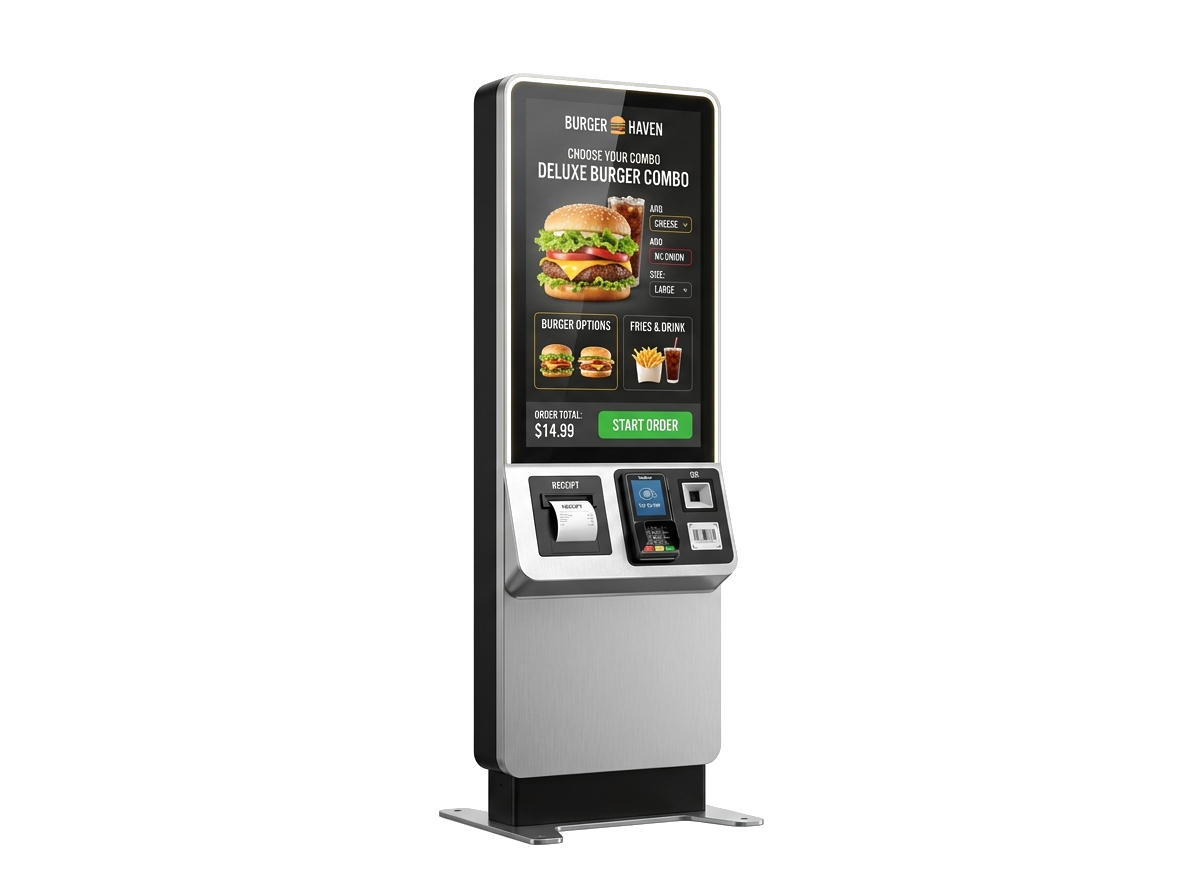
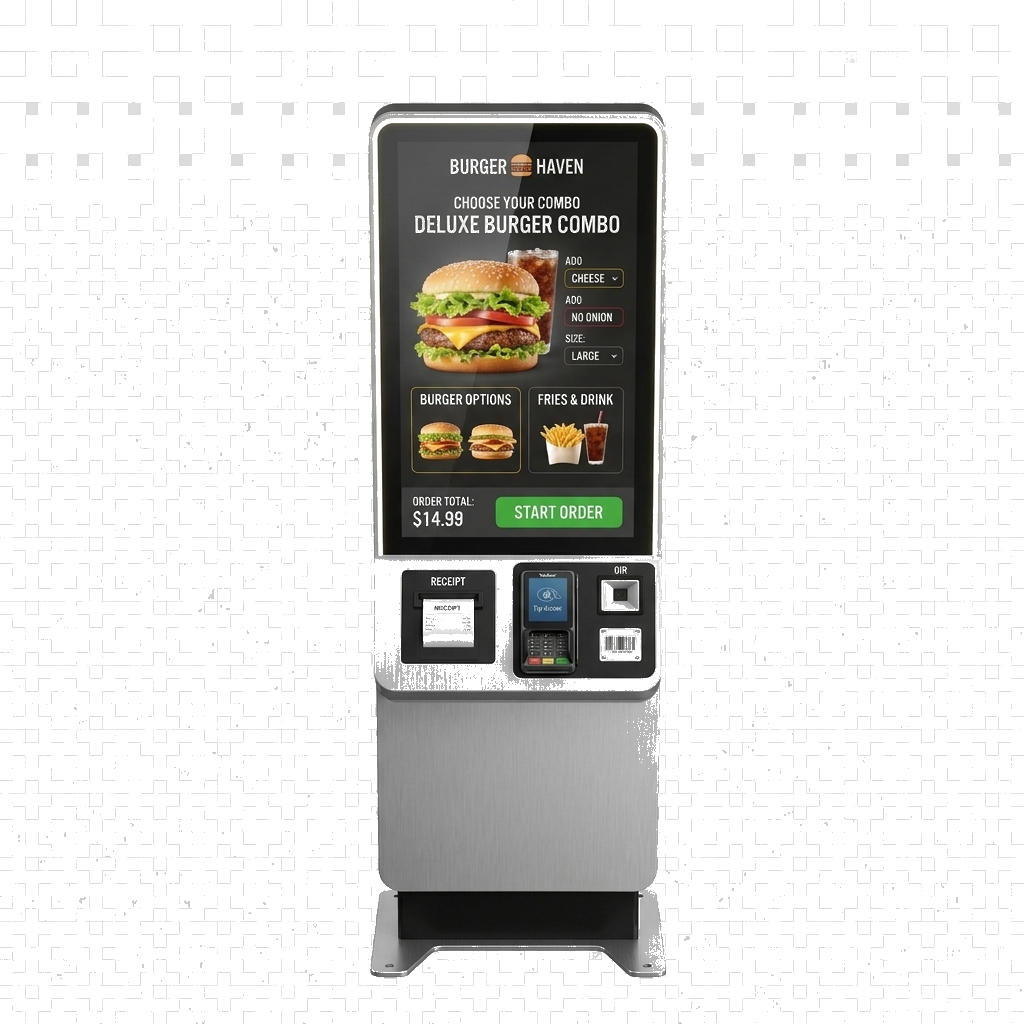
feat(ui): update showcase product cards with transparent hardware images including KDS

diff --git a/src/components/organisms/MainProductsShowcaseSection/MainProductsShowcaseSection.tsx b/src/components/organisms/MainProductsShowcaseSection/MainProductsShowcaseSection.tsx
@@ -108,8 +108,8 @@ const PLATFORM_DECK_MODULES: PlatformModule[] = [
     specBadge: "⏱ -42% Ticket Time",
     highlights: ["Station Bump Alerts", "Course Pacing", "Curbside Sync"],
     href: "/products/omnichannel",
-    imageSrc: "/images/prod_kitchen_display.png",
-    imageAlt: "Kitchen display and omnichannel fulfillment",
+    imageSrc: "/images/ent_kitchen_kds_transparent.png",
+    imageAlt: "Kitchen display system and omnichannel fulfillment",
     icon: ChefHat,
   },
   {
